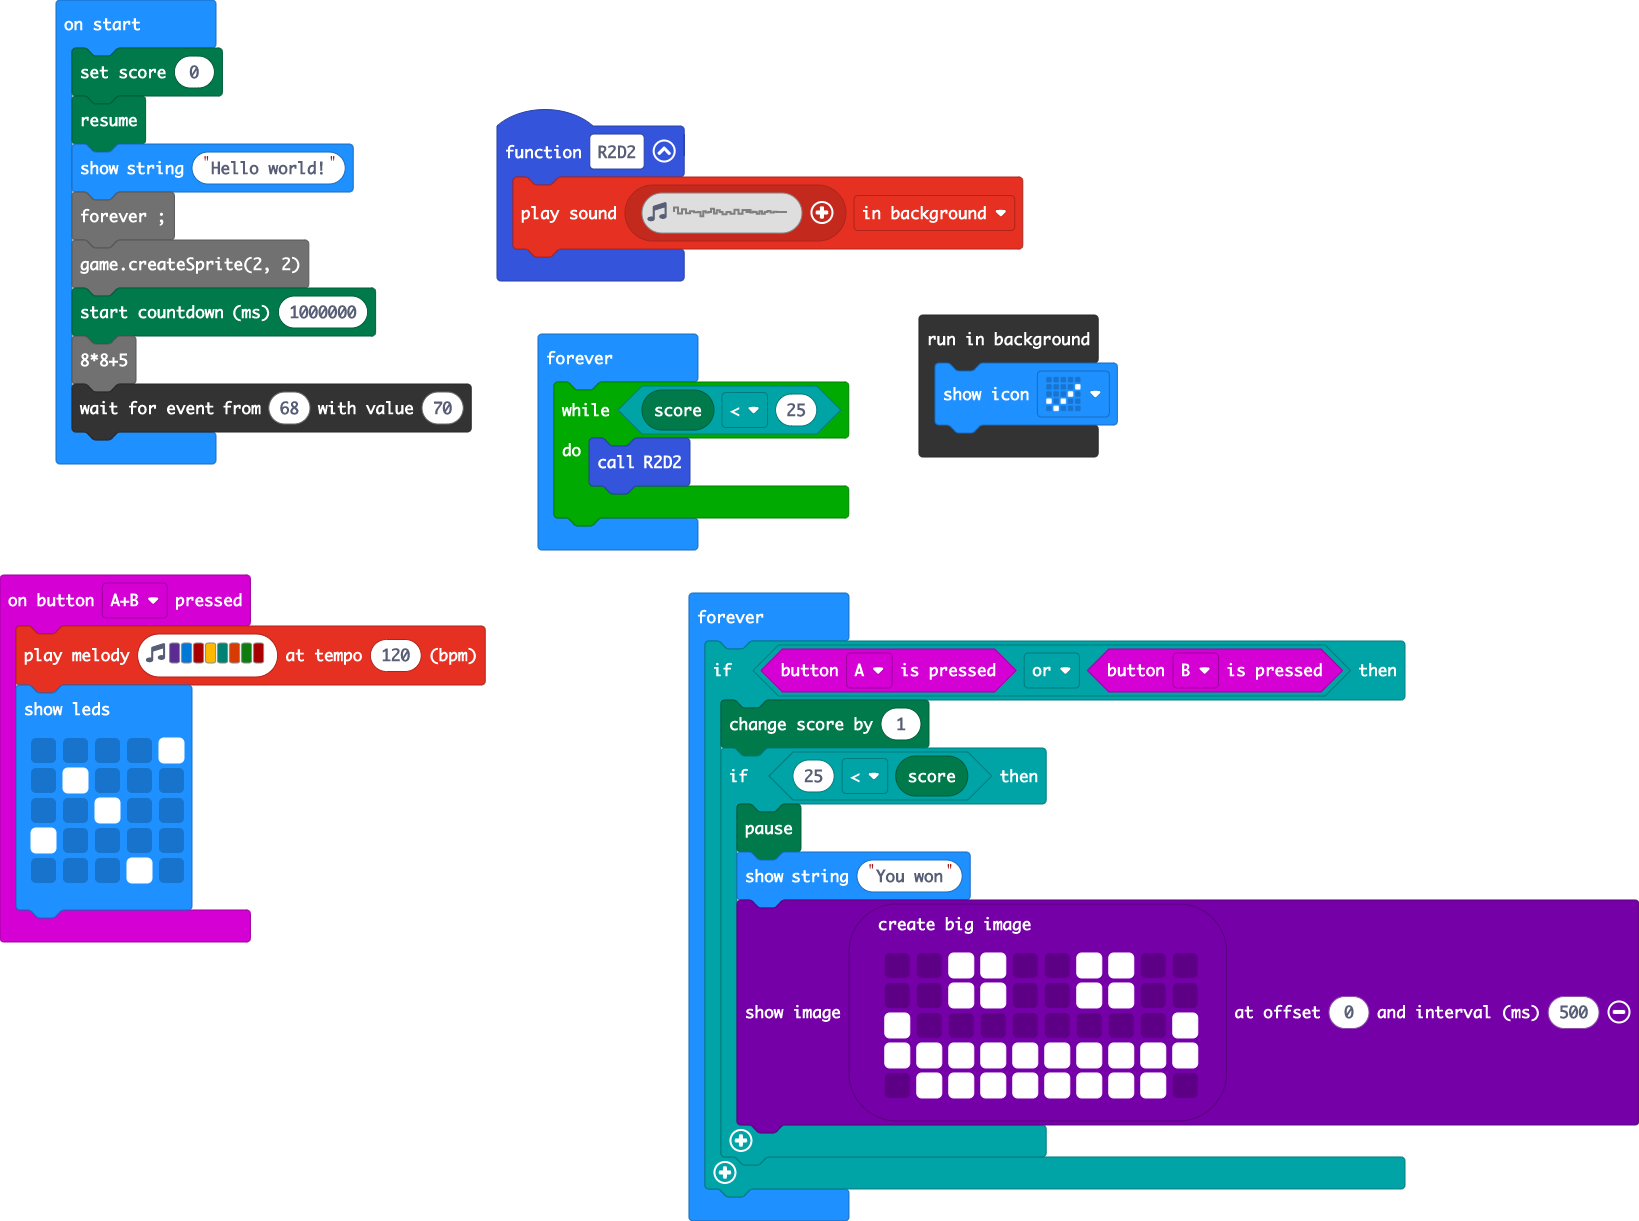
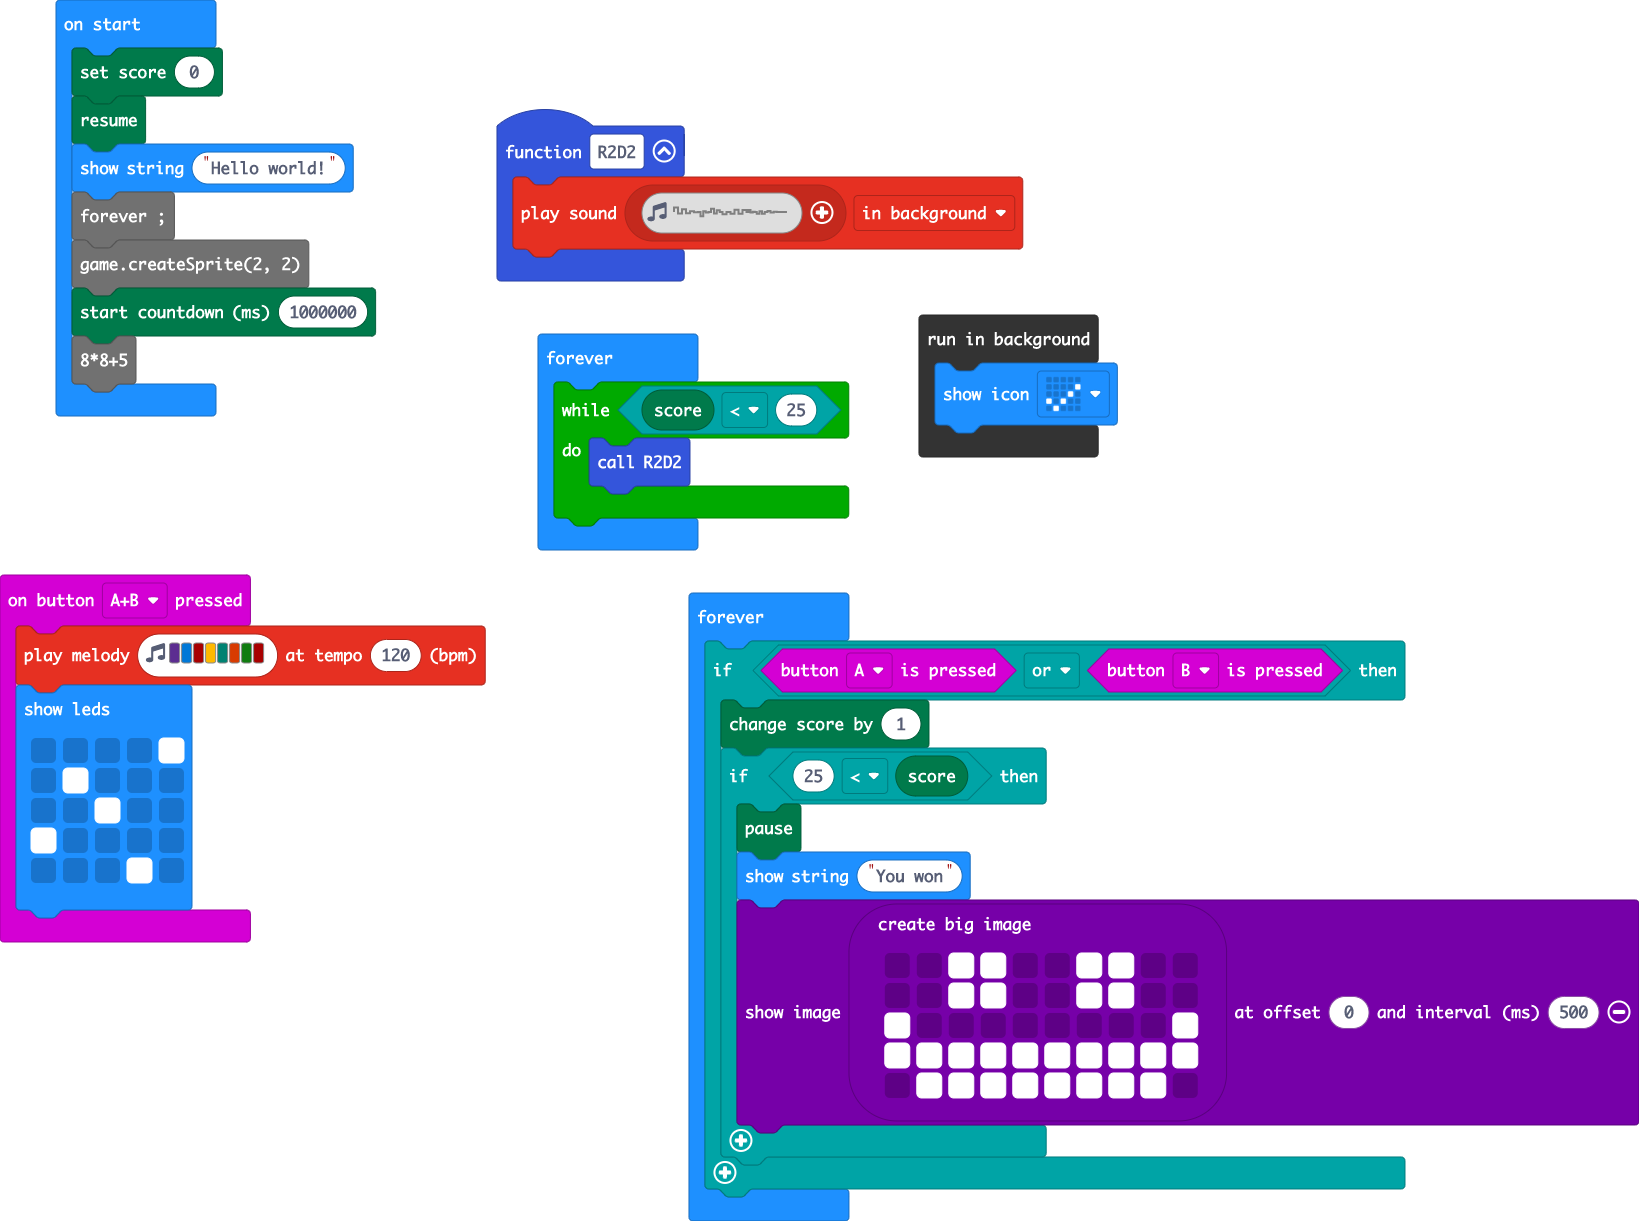
Update main.blocks, main.ts

Changed region(s): [[0.0311, 0.3112, 0.3112, 0.4046]]

diff --git a/main.ts b/main.ts
@@ -18,7 +18,6 @@ forever ;
 game.createSprite(2, 2)
 game.startCountdown(1000000)
 8*8+5
-control.waitForEvent(68, 70)
 basic.forever(function () {
     while (game.score() < 25) {
         R2D2()
